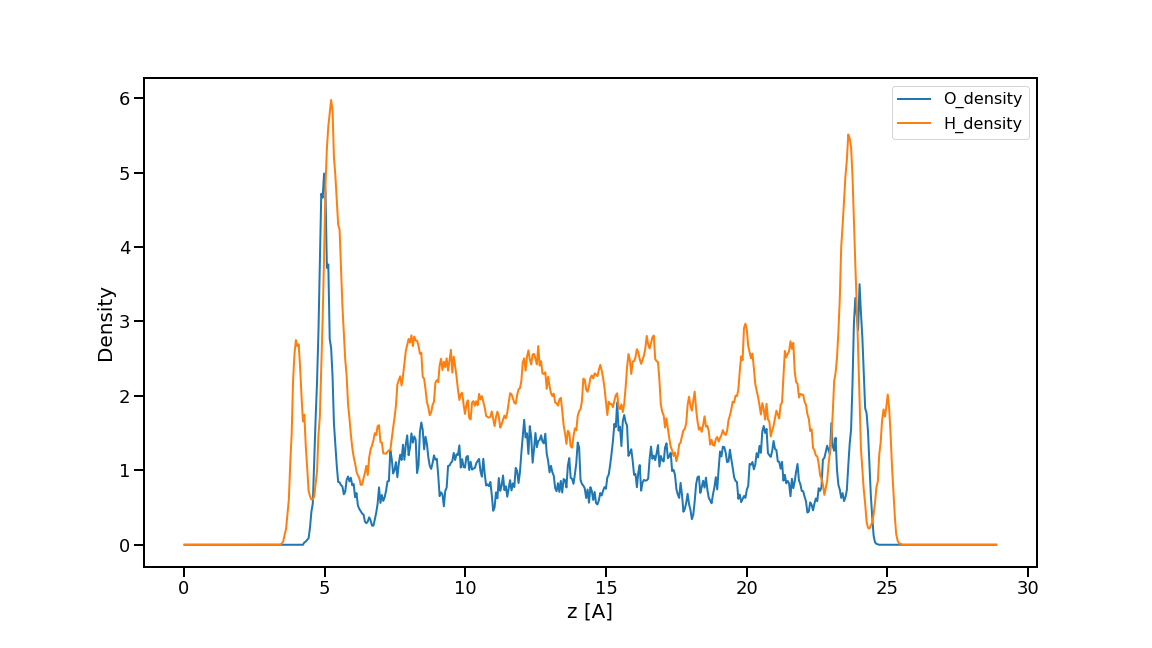
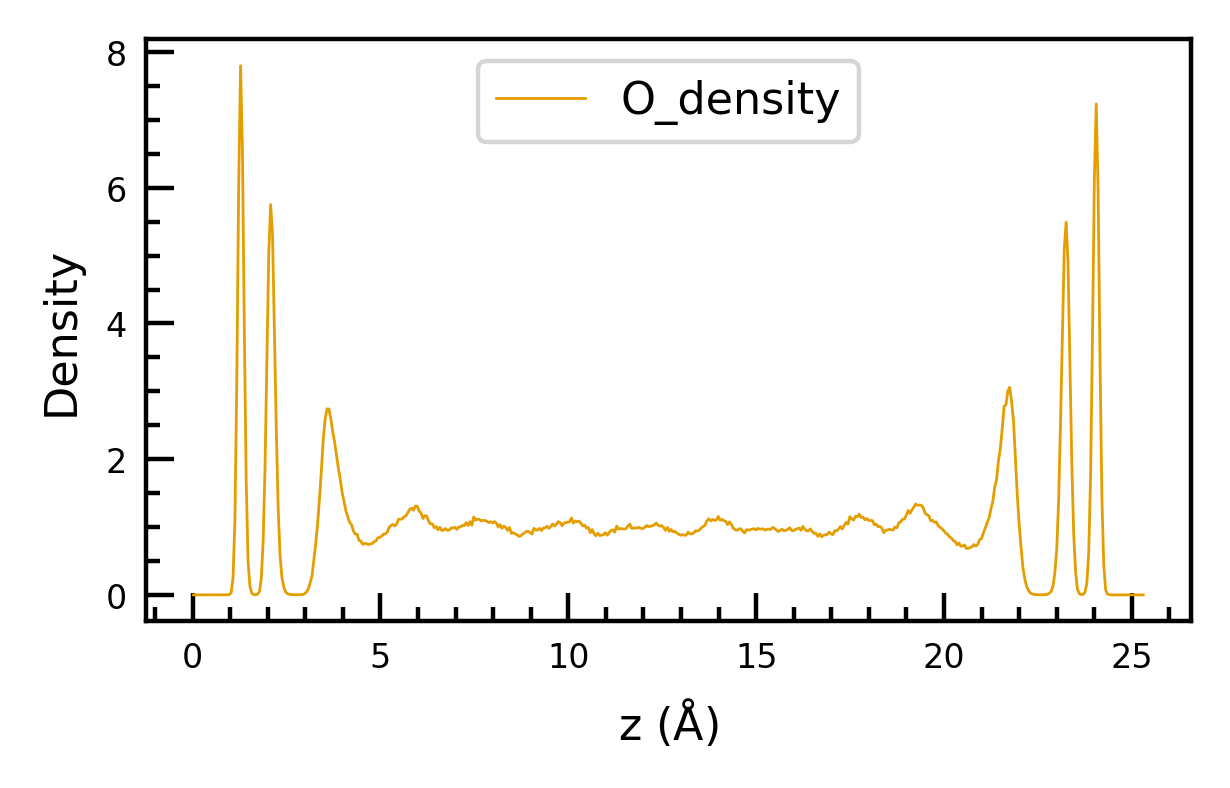
move plot from old atomdensity class (#49)

diff --git a/ectoolkits/analysis/atom_density.py b/ectoolkits/analysis/atom_density.py
@@ -10,6 +10,9 @@ from MDAnalysis import Universe
 from MDAnalysis.analysis.base import AnalysisBase
 from MDAnalysis.lib.mdamath import box_volume
 
+import matplotlib as mpl
+import cp2kdata.plots.colormaps
+
 from ectoolkits.structures.slab import Slab
 from ectoolkits.utils.utils import mic_1d
 from ectoolkits.log import get_logger
@@ -365,7 +368,41 @@ class AtomDensity(AnalysisBase):
 
         return unit_conversion
 
+    def get_ave_density(self, width_list):
+        all_cent_density = {}
+        all_cent_density[f"width"] = width_list
+        for name, density in self.atom_density.items():
+            z = self.atom_density_z[name]
+            cent = z[-1]/2
+            cent_density_list = []
+            for width in width_list:
+                left_bound = cent - width/2
+                right_bound = cent + width/2
+                part_density = density[np.logical_and(
+                    (z >= left_bound), (z <= right_bound))]
+                cent_density = part_density.mean()
+                cent_density_list.append(cent_density)
 
+            all_cent_density[f"{name}"] = cent_density_list
+
+        return pd.DataFrame(all_cent_density)
+
+    def plot_density(self, sym=False):
+        plt.style.use('cp2kdata.matplotlibstyle.jcp')
+        cp2kdata_cb_lcmap = mpl.colormaps['cp2kdata_cb_lcmap']
+        plt.rcParams["axes.prop_cycle"] = plt.cycler("color", cp2kdata_cb_lcmap.colors)
+        fig = plt.figure(figsize=(3.37, 1.89), dpi=400, facecolor='white')
+        ax = fig.add_subplot()
+        for name, density in self.atom_density.items():
+            z = self.atom_density_z[name]
+            density = density
+            if sym:
+                density = (np.flip(density) + density)/2
+            ax.plot(z, density, label=name)
+        ax.legend()
+        ax.set_ylabel("Density")
+        ax.set_xlabel(r"z ($\mathrm{\AA}$)")
+        return fig
 
 
 # old density analysis function/class

diff --git a/docs/analysis/atom_density.md b/docs/analysis/atom_density.md
@@ -48,6 +48,7 @@ Now, we import the analysis class `AtomDensity` and gather the above mentioned p
 We recommend that users instantiate an `Universe` object by themselves as follows. The dictionary `inp` is not required.
 ```python
 from ectoolkits.analysis.atom_density import AtomDensity
+from MDAnalysis import Universe
 
 # The following input
 inp={
@@ -103,8 +104,8 @@ all_cent_density = ad.get_ave_density(width_list)
 
 # quick plot for denstiy
 # if you want to symmetrize the density profile, set sym=True
-ad.plot_density(sym=False)
-
+fig = ad.plot_density(sym=False)
+fig.savefig('density.png', bbox_inches='tight')
 ```
 ![density](./figures/density.png)
 
